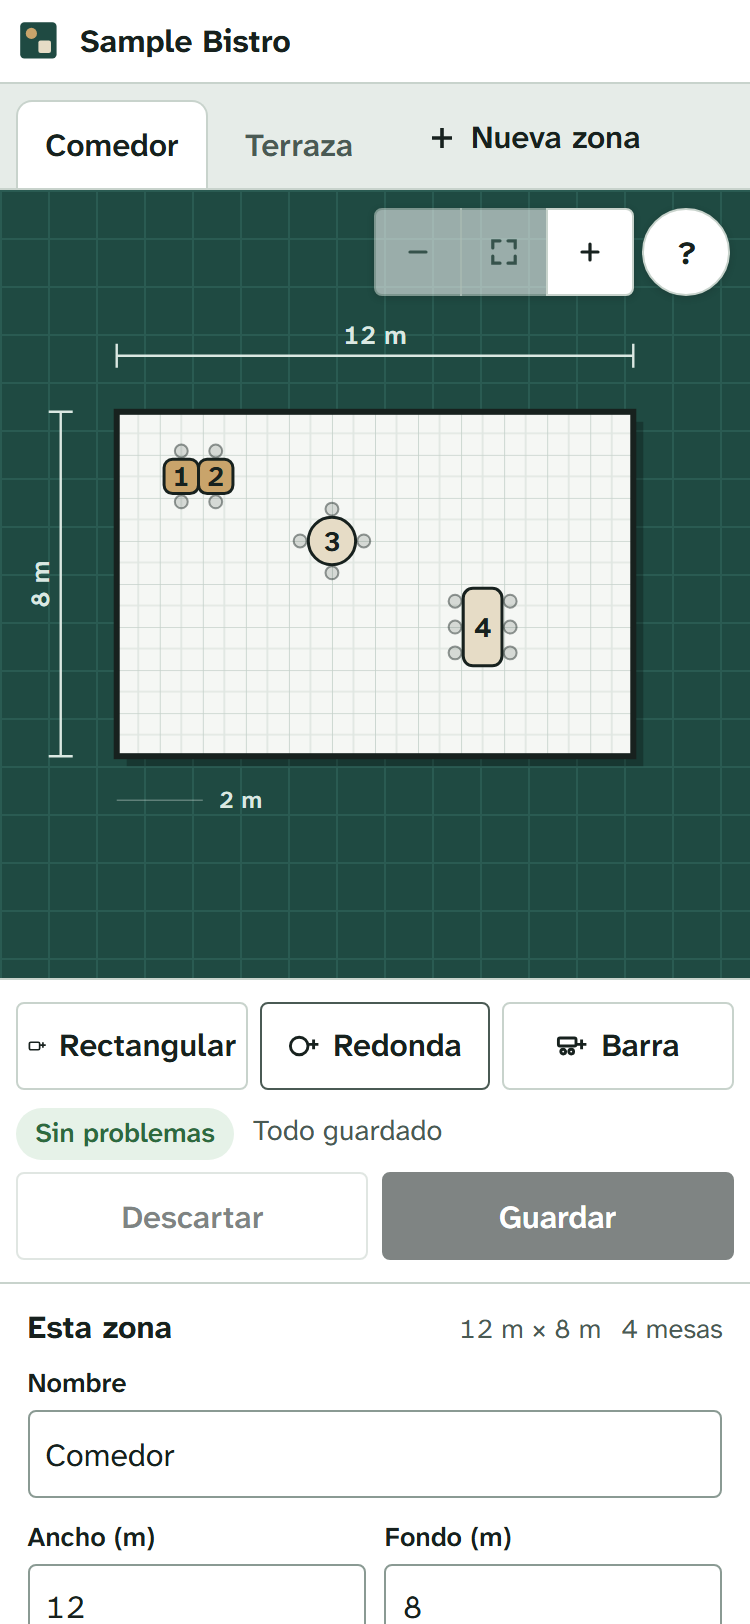
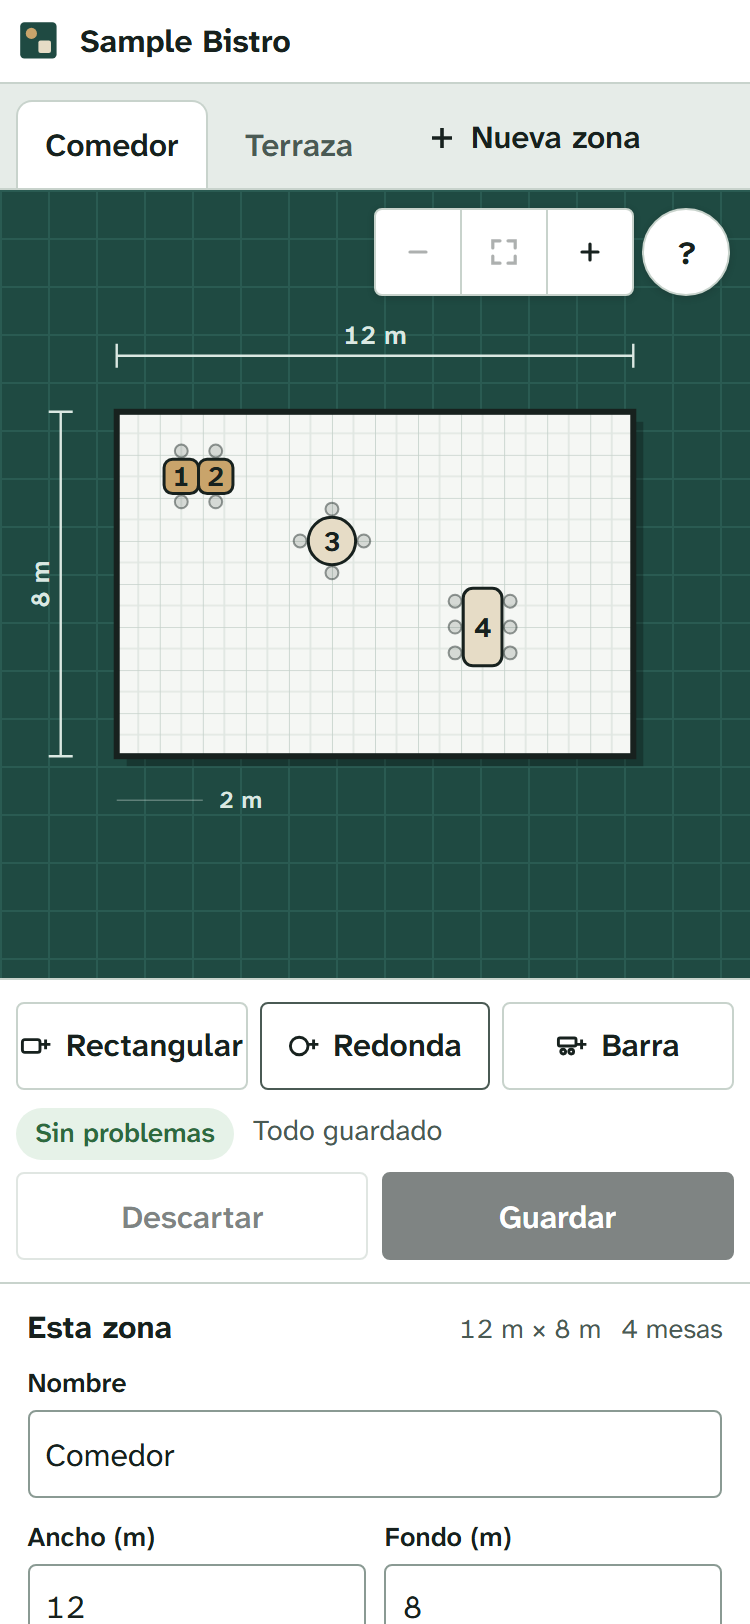
Layout test, screenshots and READMEs for the plan on the right

Changed region(s): [[0.4907, 0.1232, 0.736, 0.1847], [0.0307, 0.6158, 0.3067, 0.6773]]

diff --git a/apps/web/e2e/editor.spec.ts b/apps/web/e2e/editor.spec.ts
@@ -201,6 +201,25 @@ test("creates, renames and deletes a zone", async ({ page }) => {
   await expect(page.getByRole("button", { name: "Patio interior" })).toHaveCount(0);
 });
 
+test("puts the plan on the right, as tall as the window, and the rest in a column on the left", async ({
+  page,
+}) => {
+  await signIn(page, OWNER);
+  const viewport = page.viewportSize();
+  const plan = await page.locator(".canvas-wrap").boundingBox();
+  const add = await page.getByRole("button", { name: "Añadir mesa rectangular" }).boundingBox();
+  const save = await page.getByRole("button", { name: "Guardar cambios" }).boundingBox();
+  const signOut = await page.getByRole("button", { name: "Cerrar sesión" }).boundingBox();
+  if (!viewport || !plan || !add || !save || !signOut) throw new Error("Not on screen");
+  // Only the zone tabs above the plan, and the plan reaches the bottom of the window.
+  expect(plan.y).toBeLessThan(60);
+  expect(Math.abs(plan.y + plan.height - viewport.height)).toBeLessThan(2);
+  // The tools are in the column on its left, with the account at the bottom.
+  for (const button of [add, save, signOut]) expect(button.x + button.width).toBeLessThan(plan.x);
+  expect(add.y).toBeLessThan(save.y);
+  expect(signOut.y + signOut.height).toBeGreaterThan(viewport.height - 60);
+});
+
 test("lets staff look without changing anything, in English too", async ({ page }) => {
   await signIn(page, STAFF);
   await expect(

diff --git a/README.es.md b/README.es.md
@@ -6,7 +6,7 @@ Reservas de mesa para restaurantes: el local dibuja su propio plano y el motor d
 
 > **Estado: en sus inicios.** La API acepta reservas, la base de datos rechaza las reservas dobles y los propietarios dibujan su plano en un editor en el navegador. Las reservas públicas respetan el horario, la antelación máxima y los límites por dirección. El personal entra con contraseña y solo los propietarios de un local pueden cambiar su plano. Todavía no hay página de reservas ni pantalla del personal. Mira la [hoja de ruta](#hoja-de-ruta).
 
-![El editor del plano: un comedor dibujado a escala sobre un tapete de corte verde, con la mesa 3 elegida y sus datos en el panel lateral](docs/images/editor.png)
+![El editor del plano: un comedor dibujado a escala sobre un tapete de corte verde, con la mesa 3 elegida; el plano ocupa la derecha de la ventana y una columna a la izquierda tiene los botones de añadir, guardar, los datos de la mesa 3 y, abajo, el idioma y cerrar sesión](docs/images/editor.png)
 
 ## Por qué
 
@@ -136,32 +136,33 @@ Los propietarios de un local pueden crear, cambiar y quitar sus zonas y mesas co
 
 ## El editor del plano
 
-![La misma sala en inglés, con dos mesas una encima de otra: las dos salen rayadas en rojo y el panel lateral dice "Tables 3 and 4 overlap."](docs/images/editor-problem-en.png)
+![La misma sala en inglés, con dos mesas una encima de otra: las dos salen rayadas en rojo y la columna de la izquierda dice "Tables 3 and 4 overlap."](docs/images/editor-problem-en.png)
 
 Una pantalla para que los propietarios del local dibujen sus salas. El personal también puede abrirla, solo para mirar.
 
 - **Dibujado a escala** en SVG, una unidad por centímetro, con las medidas de la sala en sus bordes y una barra de escala. Las mesas enseñan sus sillas, redondas, alrededor; cada lado elegido para sentarse tiene al menos una.
 - **Con el ratón:** arrastra una mesa para moverla (se ajusta a 5 cm; con Alt se coloca libre), el tirador redondo la gira de 15 en 15 grados y el cuadrado le cambia el tamaño desde el centro.
-- **Pantallas táctiles** (una tablet en la barra): con el dedo se arrastra una mesa, y los tiradores crecen para poder cogerlos con el dedo (44 px). Un dedo sobre el espacio libre alrededor de las mesas desplaza la página como siempre, así que el panel que queda bajo el plano se alcanza sin problema. En pantalla táctil todos los botones y campos miden al menos 44 px de alto, y el plano solo ocupa la altura que pide la forma de la sala.
+- **Pantallas táctiles** (una tablet en la barra): con el dedo se arrastra una mesa, y los tiradores crecen para poder cogerlos con el dedo (44 px). Un dedo sobre el espacio libre alrededor de las mesas desplaza la página como siempre, así que las herramientas y el panel que quedan bajo el plano se alcanzan sin problema. En pantalla táctil todos los botones y campos miden al menos 44 px de alto, y el plano solo ocupa la altura que pide la forma de la sala.
 - **Con el teclado:** Tab pasa de una mesa a otra, las flechas mueven la elegida 5 cm (50 cm con Mayús), R la gira, Supr la quita y Esc la suelta. Cada mesa tiene un nombre completo para los lectores de pantalla ("Mesa 3, redonda, de 2 a 4 personas, a 5 m de la izquierda…") y los movimientos se anuncian.
-- **El panel lateral** cambia todo lo que guarda la API: nombre, forma, personas, tamaño, posición, giro, color y si se puede reservar por internet. Sin ninguna mesa elegida, cambia la zona. Las zonas también se crean, se renombran, cambian de tamaño y se borran desde ahí.
+- **El plano tiene el sitio.** Ocupa la derecha de la ventana, a toda su altura, con solo las pestañas de zona encima. Todo lo demás va en una columna a la izquierda: el local, los botones de añadir, el estado y guardar, el panel de la zona o de la mesa, y abajo el idioma, la cuenta y cerrar sesión. En el móvil y en la tablet en vertical, primero el plano y debajo la columna.
+- **El panel** cambia todo lo que guarda la API: nombre, forma, personas, tamaño, posición, giro, color y si se puede reservar por internet. Sin ninguna mesa elegida, cambia la zona. Las zonas también se crean, se renombran, cambian de tamaño y se borran desde ahí.
 - **Medidas en metros.** El ancho, el fondo y la posición se ven y se escriben en metros, con la coma o el punto del idioma del editor (1,2 m en español, 1.2 m en inglés); al escribir valen los dos, y las flechas suben o bajan el valor de 5 en 5 cm. La API sigue guardando centímetros enteros.
 - **Zoom.** Los botones de la esquina del plano (alejar, ver todo, acercar), las teclas + y − (0 para verlo entero), Ctrl con la rueda del ratón (alrededor del puntero) o dos dedos acercan y alejan el plano, hasta 4 píxeles por centímetro. Los textos, las líneas y los tiradores mantienen su tamaño en pantalla, y arrastrar una mesa o un tirador funciona igual con cualquier zoom. Con el zoom puesto, arrastrar el suelo (o la rueda sola) mueve el plano, en pantalla táctil con un dedo, y la mesa elegida no se sale de la vista. Sin zoom, un dedo sobre el suelo desplaza la página como antes.
 - **Etiquetas cortas, sin párrafos de ayuda.** El panel enseña solo lo que hay que rellenar; las explicaciones largas quedan para los lectores de pantalla (como descripción de cada campo) y los atajos de teclado se abren con un botón **?** en la esquina del plano. El color va en un desplegable y la lista de problemas solo sale cuando hay alguno.
-- **Compacto, como una herramienta de trabajo.** Con ratón, los botones y campos miden 32 px y los paneles van más juntos, así que cabe más plano en pantalla; en pantallas táctiles siguen en 44 px. En el móvil las filas de arriba usan etiquetas cortas (los lectores de pantalla siguen oyendo las completas) y el plano empieza más arriba.
+- **Compacto, como una herramienta de trabajo.** Con ratón, los botones y campos miden 32 px y los paneles van más juntos, así que cabe más plano en pantalla; en pantallas táctiles siguen en 44 px. Los botones de añadir llevan etiquetas cortas (los lectores de pantalla siguen oyendo las completas).
 - **Barras y mesas contra la pared.** Una mesa rectangular tiene asientos alrededor (lo normal) o en los lados que marques, colocados alrededor de un dibujito de la mesa. **Añadir tramo de barra** pone un tramo de 1,2 m con dos taburetes en un lado; si hay un tramo elegido, el siguiente va justo detrás, en línea y mirando al mismo lado. Las sillas solo se dibujan en los lados con asientos.
-- **Avisos flotantes.** Al guardar, crear o borrar, un aviso corto flota sobre la parte de abajo del plano (sin tapar el panel lateral), así que nada se mueve en la página. Las buenas noticias se cierran solas a los seis segundos, pero esperan mientras el puntero o el teclado están encima; los errores se quedan hasta que se cierran. Los lectores de pantalla oyen los dos.
+- **Avisos flotantes.** Al guardar, crear o borrar, un aviso corto flota sobre la parte de abajo del plano (sin tapar la columna de la izquierda), así que nada se mueve en la página. Las buenas noticias se cierran solas a los seis segundos, pero esperan mientras el puntero o el teclado están encima; los errores se quedan hasta que se cierran. Los lectores de pantalla oyen los dos.
 - **Los problemas se ven mientras trabajas.** El editor pasa el mismo `validateZone` que la API en cada cambio: las mesas que se pisan salen rayadas en rojo, con la zona exacta donde se tocan, y aparecen en una lista con un enlace a cada mesa.
 - **No se guarda nada hasta que pulsas Guardar.** Guardar envía solo lo que cambió, mesa por mesa. Si la API rechaza algo (una mesa con una reserva próxima, un movimiento que dejaría a un grupo sin sitio), el aviso dice qué mesa y por qué, en el idioma del editor, y ese cambio se queda en pantalla para arreglarlo. Una mesa que no se puede quitar vuelve al plano. Los movimientos que solo fallan porque otra mesa todavía no se ha apartado se vuelven a intentar después de los demás. El navegador pregunta antes de salir con cambios sin guardar.
 - **Idiomas:** español primero e inglés de respaldo para lo que no esté traducido. Todos los textos viven en `apps/web/src/i18n`; una regla de ESLint rechaza palabras escritas directamente en los componentes y un test comprueba que el español tiene todos los textos del inglés.
-- **Accesibilidad:** foco del teclado visible, etiquetas en todos los campos, colores con contraste comprobado (el nombre de cada mesa elige texto oscuro o blanco para pasar de 4,5:1; el anillo amarillo de la mesa elegida lleva un borde de tinta para destacar sobre el suelo), los tiradores se cogen en al menos 24 px con el ratón (tamaño de objetivo de WCAG 2.2) y todo lo que hace un arrastre también se puede escribir en el panel lateral. Las pruebas en navegador pasan axe por la página de entrada y por el editor, y manejan el editor en una tablet táctil.
+- **Accesibilidad:** foco del teclado visible, etiquetas en todos los campos, colores con contraste comprobado (el nombre de cada mesa elige texto oscuro o blanco para pasar de 4,5:1; el anillo amarillo de la mesa elegida lleva un borde de tinta para destacar sobre el suelo), los tiradores se cogen en al menos 24 px con el ratón (tamaño de objetivo de WCAG 2.2) y todo lo que hace un arrastre también se puede escribir en el panel. Las pruebas en navegador pasan axe por la página de entrada y por el editor, y manejan el editor en una tablet táctil.
 - **Si la sesión termina** se abre un diálogo para volver a entrar encima del editor. No se cierra con Esc, porque salir de él perdería lo que no estaba guardado.
 
-![El editor en una tablet en vertical, en español: el plano ocupa todo el ancho, la mesa 4 está elegida con sus tiradores de girar y de tamaño más grandes, y el panel lateral empieza debajo del plano.](docs/images/editor-tablet.png)
+![El editor en una tablet en vertical, en español: el plano ocupa todo el ancho, la mesa 4 está elegida con sus tiradores de girar y de tamaño más grandes, y debajo del plano vienen los botones de añadir, guardar y el panel.](docs/images/editor-tablet.png)
 
 ![El editor en un móvil, en español: una sola fila corta arriba con el local, el idioma y un icono para salir, botones con etiquetas cortas (Rectangular, Redonda, Descartar, Guardar) y el plano justo debajo.](docs/images/editor-phone.png)
 
-![Una barra hecha con tres tramos, de B1 a B3, cada uno con dos taburetes redondos en su lado de abajo; el panel lateral de B3 muestra "Asientos: en algunos lados" con solo "Abajo" marcado alrededor de un dibujito de la mesa.](docs/images/editor-bar.png)
+![Una barra hecha con tres tramos, de B1 a B3, cada uno con dos taburetes redondos en su lado de abajo; el panel de B3 muestra "Asientos: en algunos lados" con solo "Abajo" marcado alrededor de un dibujito de la mesa.](docs/images/editor-bar.png)
 
 ![El plano acercado sobre las mesas 1 y 2: las sillas redondas y la cuadrícula se ven grandes, mientras que los nombres de las mesas, el anillo de selección y los botones del zoom (alejar, ver todo, acercar) de la esquina mantienen su tamaño.](docs/images/editor-zoom.png)
 

diff --git a/README.md b/README.md
@@ -6,7 +6,7 @@ Table reservations for restaurants, where the venue draws its own floor plan and
 
 > **Status: early.** The API can take a booking, the database refuses double bookings, and owners draw their floor plan in a browser editor. Public bookings respect opening hours, a booking horizon and per-address limits. Staff sign in with a password, and only a venue's owners can change the plan. There is no booking page or staff screen yet. See the [roadmap](#roadmap).
 
-![The floor plan editor: a dining room drawn to scale on a green cutting mat, with table 3 selected and its details in the side panel](docs/images/editor.png)
+![The floor plan editor: a dining room drawn to scale on a green cutting mat, with table 3 selected; the plan fills the right of the window and a column on the left holds the add buttons, saving, the details of table 3 and, at the bottom, the language and signing out](docs/images/editor.png)
 
 ## Why
 
@@ -137,32 +137,33 @@ Owners of a venue can add, change and remove its zones and tables through the AP
 
 ## The floor plan editor
 
-![The same room in English, with two tables on top of each other: both are hatched in red and the side panel says "Tables 3 and 4 overlap."](docs/images/editor-problem-en.png)
+![The same room in English, with two tables on top of each other: both are hatched in red and the left column says "Tables 3 and 4 overlap."](docs/images/editor-problem-en.png)
 
 A screen for the venue's owners to draw their rooms. Staff can open it too, read-only.
 
 - **Drawn to scale** in SVG, one unit per centimetre, with the room's measurements along its edges and a scale bar. Tables show their seats as round chairs around them; every side chosen for seats gets at least one.
 - **Mouse:** drag a table to move it (it snaps to 5 cm; hold Alt to place it freely), the round handle turns it in 15° steps, the square handle resizes it from its centre.
-- **Touch screens** (a tablet at the pass): a finger drags a table, and the handles grow so a finger can grab them (44 px). A finger on the free space around the tables scrolls the page as usual, so the side panel under the plan is easy to reach. Every button and field is at least 44 px tall on a touch screen, and the plan is only as tall as the room's shape needs.
+- **Touch screens** (a tablet at the pass): a finger drags a table, and the handles grow so a finger can grab them (44 px). A finger on the free space around the tables scrolls the page as usual, so the tools and the panel under the plan are easy to reach. Every button and field is at least 44 px tall on a touch screen, and the plan is only as tall as the room's shape needs.
 - **Keyboard:** Tab goes from table to table, the arrows move the selected one by 5 cm (50 cm with Shift), R turns it, Delete removes it, Escape lets go. Every table has a full name for screen readers ("Table 3, round, for 2 to 4, 5 m from the left…"), and moves are announced.
-- **The side panel** edits everything the API stores: name, shape, seats, size, position, turn, colour and whether it can be booked online. With no table selected, it edits the zone. Zones are created, renamed, resized and deleted from there too.
+- **The plan gets the room.** It fills the right of the window, as tall as it is, with only the zone tabs above it. Everything else is in one column on the left: the venue, the add buttons, the state and saving, the zone or table panel, and at the bottom the language, the account and signing out. On phones and tablets held upright, the plan comes first and the column follows under it.
+- **The panel** edits everything the API stores: name, shape, seats, size, position, turn, colour and whether it can be booked online. With no table selected, it edits the zone. Zones are created, renamed, resized and deleted from there too.
 - **Lengths in metres.** Widths, depths and positions are shown and typed in metres, with the decimal mark of the editor's language (1,2 m in Spanish, 1.2 m in English); a comma or a point both work when typing, and the arrow keys step the value by 5 cm. The API still stores whole centimetres.
 - **Zoom.** The buttons in the plan's corner (zoom out, whole plan, zoom in), the + and − keys (0 for the whole plan), Ctrl and the mouse wheel (around the pointer) or two fingers zoom the plan, up to 4 pixels per centimetre. Labels, lines and handles keep their size on screen, and dragging a table or a handle works the same at any zoom. Zoomed in, dragging the floor (or the wheel on its own) moves around the plan, one finger does it on a touch screen, and the selected table is kept in sight. Zoomed out, a finger on the floor scrolls the page as before.
 - **Short labels, no paragraphs of help.** The panel shows only what you need to fill in; the longer explanations are there for screen readers (as field descriptions) and the keyboard shortcuts open from a **?** button in the corner of the plan. The colour is a dropdown, and the problems list only appears when there is a problem.
-- **Compact, like a work tool.** With a mouse, buttons and fields are 32 px tall and the panels are tight, so more of the plan fits on screen; touch screens keep 44 px. On a phone the top rows shrink to short labels (screen readers still hear the full ones), so the plan starts higher up.
+- **Compact, like a work tool.** With a mouse, buttons and fields are 32 px tall and the panels are tight, so more of the plan fits on screen; touch screens keep 44 px. The add buttons use short labels (screen readers still hear the full ones).
 - **Bars and tables against the wall.** A rectangular table has seats all around (the default) or on the sides you tick, laid out around a little drawing of the table. **Add bar section** adds a 1.2 m section with two stools along one side; with a section selected, the next one goes straight after it, in line and the same way round. Chairs are only drawn on the sides that have seats.
-- **Messages float.** After saving, creating or deleting, a short message floats over the bottom of the plan (clear of the side panel), so nothing on the page moves. Good news closes itself after six seconds, but waits while the pointer or the keyboard is on it; errors stay until they are closed. Screen readers hear both.
+- **Messages float.** After saving, creating or deleting, a short message floats over the bottom of the plan (clear of the left column), so nothing on the page moves. Good news closes itself after six seconds, but waits while the pointer or the keyboard is on it; errors stay until they are closed. Screen readers hear both.
 - **Problems show as you work.** The editor runs the same `validateZone` as the API on every change: overlapping tables are hatched in red, with the exact area where they meet, and listed with a link to each table.
 - **Nothing is saved until you press Save.** Saving sends only what changed, one table at a time. If the API refuses something (a table with an upcoming booking, a move that would leave a party without room), the message says which table and why, in the editor's language, and that change stays on screen to fix. A table that cannot be removed goes back on the plan. Moves that only fail because another table hasn't moved out of the way yet are tried again after the others. The browser asks before you leave with unsaved changes.
 - **Languages:** Spanish first, English as the fallback for anything not translated. Every text lives in `apps/web/src/i18n`; a lint rule refuses words written straight into the components, and a test checks Spanish has every English text.
-- **Accessibility:** visible keyboard focus, labels on every field, colours checked for contrast (table names pick dark or white text to stay above 4.5:1; the yellow selection ring has an ink edge so it stands out from the floor), handles you grab are at least 24 px with a mouse (WCAG 2.2 target size), and everything a drag does can also be typed in the side panel. The browser tests run axe on the sign-in page and the editor, and drive the editor on a touch tablet.
+- **Accessibility:** visible keyboard focus, labels on every field, colours checked for contrast (table names pick dark or white text to stay above 4.5:1; the yellow selection ring has an ink edge so it stands out from the floor), handles you grab are at least 24 px with a mouse (WCAG 2.2 target size), and everything a drag does can also be typed in the panel. The browser tests run axe on the sign-in page and the editor, and drive the editor on a touch tablet.
 - **The session ending** opens a sign-in dialog over the editor. It cannot be closed with Escape, because leaving it would lose what was not saved.
 
-![The editor on a tablet held upright, in Spanish: the plan fills the width, table 4 is selected with its larger turning and resizing handles, and the side panel starts below the plan.](docs/images/editor-tablet.png)
+![The editor on a tablet held upright, in Spanish: the plan fills the width, table 4 is selected with its larger turning and resizing handles, and the add buttons, saving and the panel follow below the plan.](docs/images/editor-tablet.png)
 
 ![The editor on a phone, in Spanish: one short row at the top with the venue, the language and an icon to sign out, short button labels (Rectangular, Redonda, Descartar, Guardar), and the plan right below.](docs/images/editor-phone.png)
 
-![A bar built from three sections, B1 to B3, each with two round stools along its bottom side; the side panel of B3, in Spanish, shows "Asientos: En algunos lados" with only "Abajo" (bottom) ticked around a small drawing of the table.](docs/images/editor-bar.png)
+![A bar built from three sections, B1 to B3, each with two round stools along its bottom side; the panel of B3, in Spanish, shows "Asientos: En algunos lados" with only "Abajo" (bottom) ticked around a small drawing of the table.](docs/images/editor-bar.png)
 
 ![The plan zoomed in on tables 1 and 2, in Spanish: the round chairs and the grid are large, while the table names, the selection ring and the zoom buttons (zoom out, whole plan, zoom in) in the corner keep their usual size.](docs/images/editor-zoom.png)
 
